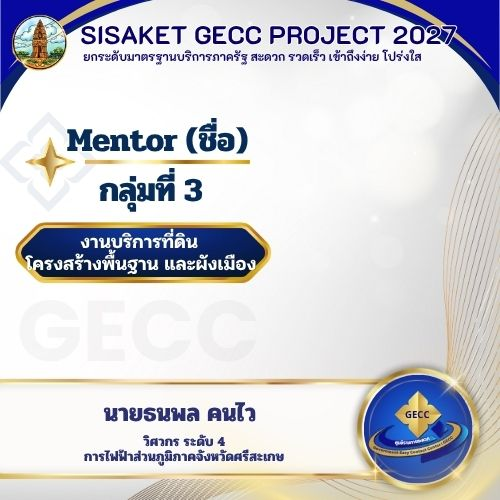
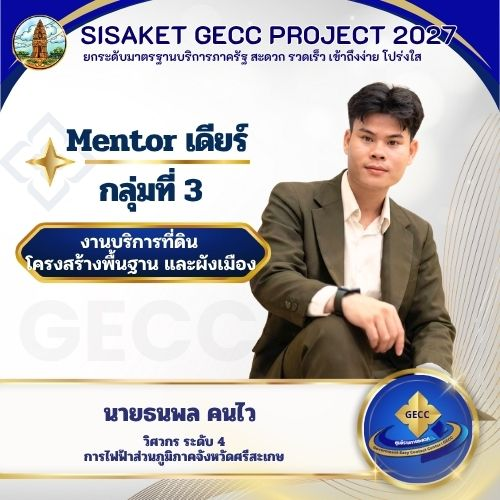
Restore Group 3 person 2 original photo and apply new photo to Group 3 person 3

Changed region(s): [[0.48, 0.15, 0.93, 0.78], [0.12, 0.24, 0.51, 0.33], [0.93, 0.81, 0.99, 0.84]]

diff --git a/index.html b/index.html
@@ -2636,13 +2636,13 @@ const MENTOR_MEMBERS = {
       [
         "นางสาวสุภัสสร เจริญทัศน์",
         "เจ้าพนักงานที่ดินอาวุโส สำนักงานที่ดินจังหวัดศรีสะเกษ",
-        "assets/images/mentor-group-3-2.jpg?v=2570b",
+        "assets/images/mentor-group-3-2.jpg?v=2570c",
         "MENTOR"
       ],
       [
         "นายธนพล คนไว",
         "วิศวกร ระดับ 4 การไฟฟ้าส่วนภูมิภาคจังหวัดศรีสะเกษ",
-        "assets/images/mentor-group-3-3.jpg",
+        "assets/images/mentor-group-3-3.jpg?v=2570b",
         "MENTOR"
       ],
       [
